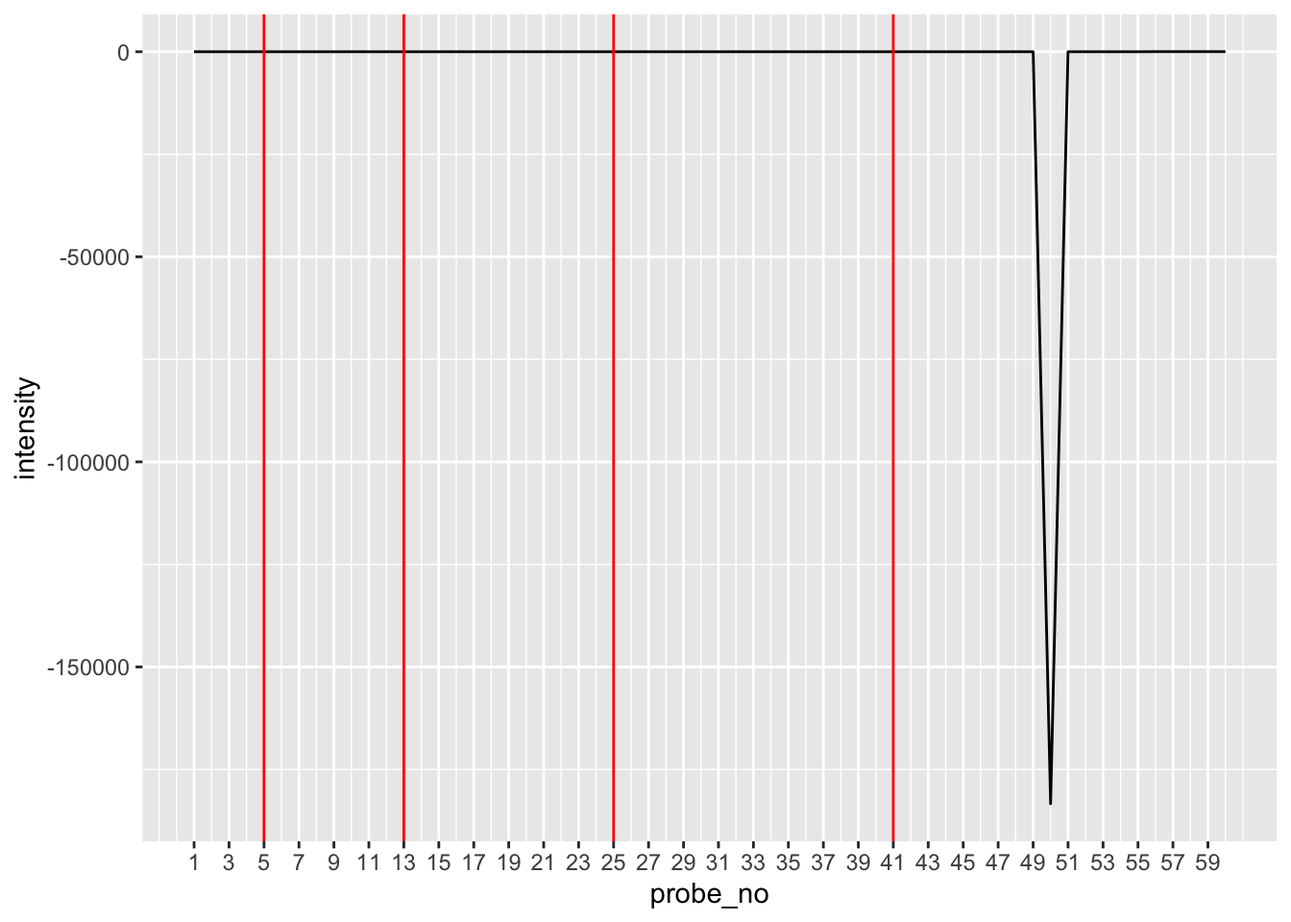
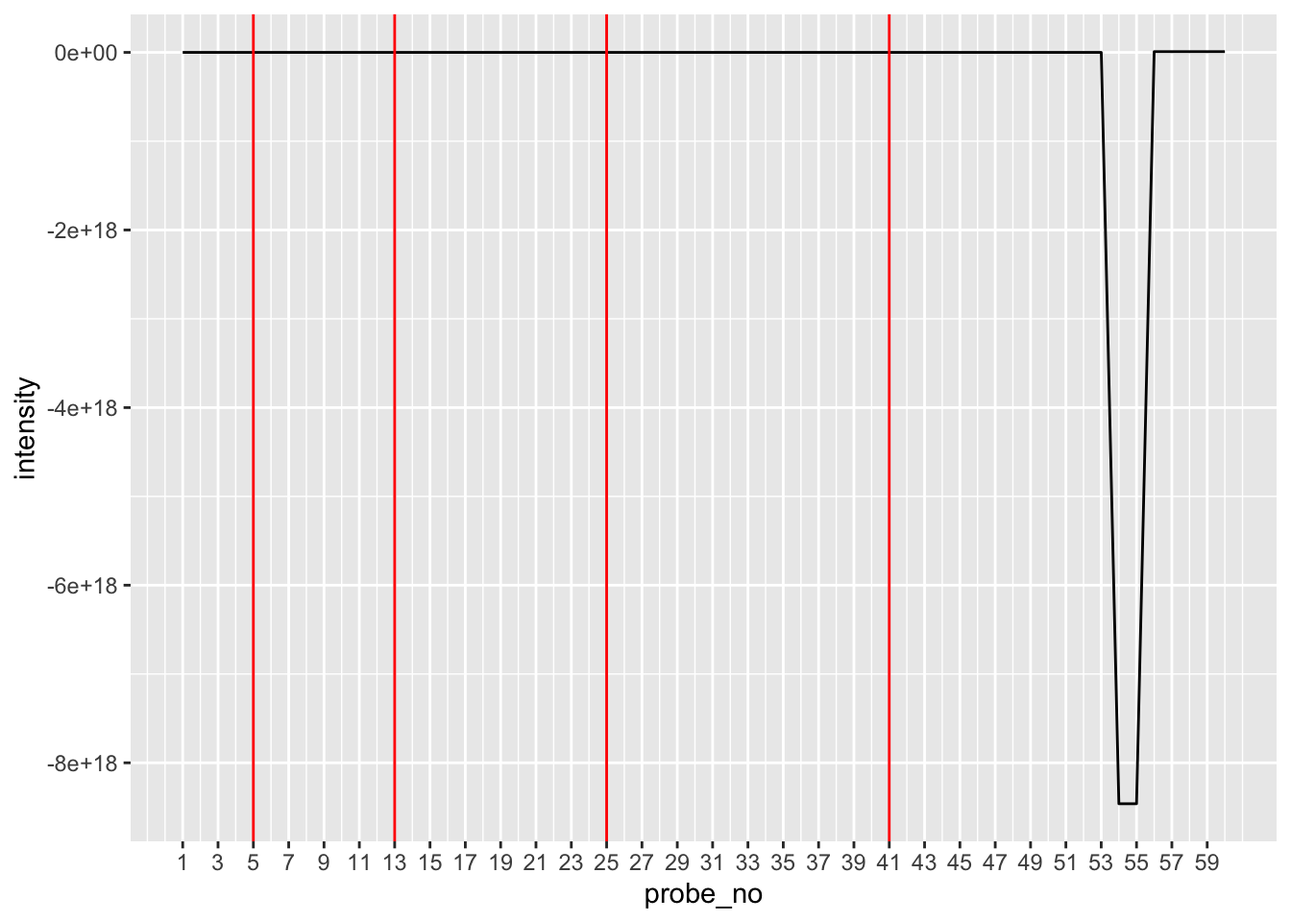
Edited DiscrepancyEncoding

Changed region(s): [[0.0312, 0.0, 0.9375, 1.0]]

diff --git a/docs/posts/DiscrepancyEncoding/index.html b/docs/posts/DiscrepancyEncoding/index.html
@@ -7,7 +7,7 @@
 <meta name="viewport" content="width=device-width, initial-scale=1.0, user-scalable=yes">
 
 <meta name="author" content="Bram Goh">
-<meta name="dcterms.date" content="2023-03-08">
+<meta name="dcterms.date" content="2023-03-10">
 
 <title>../../Computational Cognition - Discrepancy Encoding in MINERVA (Part 1)</title>
 <style>
@@ -188,7 +188,7 @@ code span.wa { color: #60a0b0; font-weight: bold; font-style: italic; } /* Warni
       <div>
       <div class="quarto-title-meta-heading">Published</div>
       <div class="quarto-title-meta-contents">
-        <p class="date">March 8, 2023</p>
+        <p class="date">March 10, 2023</p>
       </div>
     </div>
     
@@ -317,7 +317,7 @@ code span.wa { color: #60a0b0; font-weight: bold; font-style: italic; } /* Warni
 <span id="cb6-30"><a href="#cb6-30" aria-hidden="true" tabindex="-1"></a>}</span></code><button title="Copy to Clipboard" class="code-copy-button"><i class="bi"></i></button></pre></div>
 </div>
 <div class="cell">
-<div class="sourceCode cell-code" id="cb7"><pre class="sourceCode r code-with-copy"><code class="sourceCode r"><span id="cb7-1"><a href="#cb7-1" aria-hidden="true" tabindex="-1"></a>raw_df_no_de <span class="ot">&lt;-</span> <span class="fu">sim_intensity_multiple</span>(<span class="dv">100</span>)</span>
+<div class="sourceCode cell-code" id="cb7"><pre class="sourceCode r code-with-copy"><code class="sourceCode r"><span id="cb7-1"><a href="#cb7-1" aria-hidden="true" tabindex="-1"></a>raw_df_no_de <span class="ot">&lt;-</span> <span class="fu">sim_intensity_multiple</span>(<span class="dv">1000</span>)</span>
 <span id="cb7-2"><a href="#cb7-2" aria-hidden="true" tabindex="-1"></a></span>
 <span id="cb7-3"><a href="#cb7-3" aria-hidden="true" tabindex="-1"></a>by_probe_no_de <span class="ot">&lt;-</span> <span class="fu">data.frame</span>(<span class="at">probe_no =</span> <span class="dv">1</span><span class="sc">:</span><span class="dv">60</span>, <span class="at">intensity =</span> <span class="fu">rowMeans</span>(raw_df_no_de))</span>
 <span id="cb7-4"><a href="#cb7-4" aria-hidden="true" tabindex="-1"></a><span class="fu">ggplot</span>(by_probe_no_de, <span class="fu">aes</span>(<span class="at">x =</span> probe_no, <span class="at">y =</span> intensity)) <span class="sc">+</span> <span class="fu">geom_line</span>() <span class="sc">+</span> <span class="fu">coord_cartesian</span>(<span class="at">ylim =</span> <span class="fu">c</span>(<span class="sc">-</span><span class="fl">0.01</span>, <span class="fl">0.075</span>)) <span class="sc">+</span> <span class="fu">scale_x_continuous</span>(<span class="at">breaks =</span> <span class="fu">seq</span>(<span class="dv">1</span>, <span class="dv">60</span>, <span class="dv">2</span>)) <span class="sc">+</span> <span class="fu">geom_vline</span>(<span class="at">xintercept =</span> <span class="fu">c</span>(<span class="dv">5</span>, <span class="dv">13</span>, <span class="dv">25</span>, <span class="dv">41</span>), <span class="at">color =</span> <span class="st">"red"</span>)</span></code><button title="Copy to Clipboard" class="code-copy-button"><i class="bi"></i></button></pre></div>
@@ -330,6 +330,7 @@ code span.wa { color: #60a0b0; font-weight: bold; font-style: italic; } /* Warni
 <p><img src="index_files/figure-html/unnamed-chunk-3-2.png" class="img-fluid" width="672"></p>
 </div>
 </div>
+<p>This looks like what we would expect: the intensities are higher when the presented probe has been seen before, and the more times it’s been presented before, the higher the intensity. Looking at the frequency distributions, we see a similar overall shape to that found in Hintzman (1988), with the amplitudes decreasing and the variance increasing with higher frequency. The details are different, probably because the setup here is different from Hintzman (1988): we start off here with a ‘blank slate’ of random vectors in memory before adding each probe to populate memory.</p>
 <div class="cell">
 <div class="sourceCode cell-code" id="cb9"><pre class="sourceCode r code-with-copy"><code class="sourceCode r"><span id="cb9-1"><a href="#cb9-1" aria-hidden="true" tabindex="-1"></a><span class="co"># Overall simulation function (with discrepancy encoding)</span></span>
 <span id="cb9-2"><a href="#cb9-2" aria-hidden="true" tabindex="-1"></a></span>
@@ -342,42 +343,105 @@ code span.wa { color: #60a0b0; font-weight: bold; font-style: italic; } /* Warni
 <span id="cb9-9"><a href="#cb9-9" aria-hidden="true" tabindex="-1"></a></span>
 <span id="cb9-10"><a href="#cb9-10" aria-hidden="true" tabindex="-1"></a><span class="co"># Caluclating intensities and storing each probe</span></span>
 <span id="cb9-11"><a href="#cb9-11" aria-hidden="true" tabindex="-1"></a>intensity_vector <span class="ot">&lt;-</span> <span class="fu">numeric</span>(<span class="at">length =</span> <span class="fu">nrow</span>(probe_matrix))</span>
-<span id="cb9-12"><a href="#cb9-12" aria-hidden="true" tabindex="-1"></a>  <span class="cf">for</span>(i <span class="cf">in</span> <span class="dv">1</span><span class="sc">:</span><span class="fu">nrow</span>(probe_matrix)){</span>
-<span id="cb9-13"><a href="#cb9-13" aria-hidden="true" tabindex="-1"></a>    current_echo <span class="ot">&lt;-</span> <span class="fu">get_echo</span>(probe_matrix[i, ], memory, <span class="at">output =</span> <span class="st">"both"</span>)</span>
-<span id="cb9-14"><a href="#cb9-14" aria-hidden="true" tabindex="-1"></a>    intensity_vector[i] <span class="ot">&lt;-</span> current_echo[[<span class="dv">1</span>]]</span>
-<span id="cb9-15"><a href="#cb9-15" aria-hidden="true" tabindex="-1"></a>    learning_filter <span class="ot">&lt;-</span> <span class="fu">sample</span>(<span class="fu">c</span>(<span class="dv">0</span>, <span class="dv">1</span>), item_size, <span class="at">replace =</span> <span class="cn">TRUE</span>, <span class="at">prob =</span> <span class="fu">c</span>(<span class="dv">1</span><span class="sc">-</span>l_value, l_value))</span>
-<span id="cb9-16"><a href="#cb9-16" aria-hidden="true" tabindex="-1"></a>    current_content <span class="ot">&lt;-</span> current_echo[[<span class="dv">2</span>]]<span class="sc">/</span><span class="fu">max</span>(current_echo[[<span class="dv">2</span>]])</span>
-<span id="cb9-17"><a href="#cb9-17" aria-hidden="true" tabindex="-1"></a>    discrep <span class="ot">&lt;-</span> probe_matrix[i, ] <span class="sc">-</span> current_content</span>
-<span id="cb9-18"><a href="#cb9-18" aria-hidden="true" tabindex="-1"></a>    learned_trace <span class="ot">&lt;-</span> discrep <span class="sc">*</span> learning_filter</span>
-<span id="cb9-19"><a href="#cb9-19" aria-hidden="true" tabindex="-1"></a>    memory[i, ] <span class="ot">&lt;-</span> learned_trace</span>
-<span id="cb9-20"><a href="#cb9-20" aria-hidden="true" tabindex="-1"></a>  }</span>
-<span id="cb9-21"><a href="#cb9-21" aria-hidden="true" tabindex="-1"></a>intensity_df <span class="ot">&lt;-</span> <span class="fu">data.frame</span>(<span class="at">intensity_value =</span> intensity_vector)</span>
-<span id="cb9-22"><a href="#cb9-22" aria-hidden="true" tabindex="-1"></a><span class="fu">return</span>(intensity_df)</span>
-<span id="cb9-23"><a href="#cb9-23" aria-hidden="true" tabindex="-1"></a>}</span>
-<span id="cb9-24"><a href="#cb9-24" aria-hidden="true" tabindex="-1"></a></span>
-<span id="cb9-25"><a href="#cb9-25" aria-hidden="true" tabindex="-1"></a>sim_intensity_multiple_de <span class="ot">&lt;-</span> <span class="cf">function</span>(n_of_sim, <span class="at">matrix_size =</span> <span class="dv">20</span>, <span class="at">item_size =</span> <span class="dv">20</span>, <span class="at">prob =</span> <span class="fu">c</span>(<span class="dv">1</span><span class="sc">/</span><span class="dv">3</span>, <span class="dv">1</span><span class="sc">/</span><span class="dv">3</span>, <span class="dv">1</span><span class="sc">/</span><span class="dv">3</span>), <span class="at">l_value =</span> .<span class="dv">5</span>, <span class="at">max_num_of_copies =</span> <span class="dv">5</span>, <span class="at">num_of_traces_per_freq =</span> <span class="dv">4</span>) {</span>
-<span id="cb9-26"><a href="#cb9-26" aria-hidden="true" tabindex="-1"></a>  full_intensity_df <span class="ot">&lt;-</span> <span class="fu">data.frame</span>(<span class="fu">matrix</span>(<span class="dv">0</span>, <span class="at">nrow =</span> <span class="fu">sum</span>((<span class="dv">1</span><span class="sc">:</span>max_num_of_copies)<span class="sc">*</span><span class="dv">4</span>), <span class="at">ncol =</span> n_of_sim))</span>
-<span id="cb9-27"><a href="#cb9-27" aria-hidden="true" tabindex="-1"></a>  <span class="cf">for</span>(i <span class="cf">in</span> <span class="dv">1</span><span class="sc">:</span>n_of_sim) {</span>
-<span id="cb9-28"><a href="#cb9-28" aria-hidden="true" tabindex="-1"></a>    intensity_column <span class="ot">&lt;-</span> <span class="fu">sim_intensity_once_de</span>(<span class="at">matrix_size =</span> matrix_size, <span class="at">item_size =</span> item_size, <span class="at">prob =</span> prob, <span class="at">l_value =</span> l_value, <span class="at">max_num_of_copies =</span> max_num_of_copies, <span class="at">num_of_traces_per_freq =</span> num_of_traces_per_freq)</span>
-<span id="cb9-29"><a href="#cb9-29" aria-hidden="true" tabindex="-1"></a>    full_intensity_df[ , i] <span class="ot">&lt;-</span> intensity_column</span>
-<span id="cb9-30"><a href="#cb9-30" aria-hidden="true" tabindex="-1"></a>  }</span>
-<span id="cb9-31"><a href="#cb9-31" aria-hidden="true" tabindex="-1"></a>  <span class="fu">return</span>(full_intensity_df)</span>
-<span id="cb9-32"><a href="#cb9-32" aria-hidden="true" tabindex="-1"></a>}</span></code><button title="Copy to Clipboard" class="code-copy-button"><i class="bi"></i></button></pre></div>
+<span id="cb9-12"><a href="#cb9-12" aria-hidden="true" tabindex="-1"></a>probe_discrep_cor <span class="ot">&lt;-</span> <span class="fu">numeric</span>(<span class="at">length =</span> <span class="fu">nrow</span>(probe_matrix))</span>
+<span id="cb9-13"><a href="#cb9-13" aria-hidden="true" tabindex="-1"></a>  <span class="cf">for</span>(i <span class="cf">in</span> <span class="dv">1</span><span class="sc">:</span><span class="fu">nrow</span>(probe_matrix)){</span>
+<span id="cb9-14"><a href="#cb9-14" aria-hidden="true" tabindex="-1"></a>    current_echo <span class="ot">&lt;-</span> <span class="fu">get_echo</span>(probe_matrix[i, ], memory, <span class="at">output =</span> <span class="st">"both"</span>)</span>
+<span id="cb9-15"><a href="#cb9-15" aria-hidden="true" tabindex="-1"></a>    intensity_vector[i] <span class="ot">&lt;-</span> current_echo[[<span class="dv">1</span>]]</span>
+<span id="cb9-16"><a href="#cb9-16" aria-hidden="true" tabindex="-1"></a>    learning_filter <span class="ot">&lt;-</span> <span class="fu">sample</span>(<span class="fu">c</span>(<span class="dv">0</span>, <span class="dv">1</span>), item_size, <span class="at">replace =</span> <span class="cn">TRUE</span>, <span class="at">prob =</span> <span class="fu">c</span>(<span class="dv">1</span><span class="sc">-</span>l_value, l_value))</span>
+<span id="cb9-17"><a href="#cb9-17" aria-hidden="true" tabindex="-1"></a>    current_content <span class="ot">&lt;-</span> current_echo[[<span class="dv">2</span>]]<span class="sc">/</span><span class="fu">max</span>(current_echo[[<span class="dv">2</span>]])</span>
+<span id="cb9-18"><a href="#cb9-18" aria-hidden="true" tabindex="-1"></a>    discrep <span class="ot">&lt;-</span> probe_matrix[i, ] <span class="sc">-</span> current_content</span>
+<span id="cb9-19"><a href="#cb9-19" aria-hidden="true" tabindex="-1"></a>    learned_trace <span class="ot">&lt;-</span> discrep <span class="sc">*</span> learning_filter</span>
+<span id="cb9-20"><a href="#cb9-20" aria-hidden="true" tabindex="-1"></a>    memory[i, ] <span class="ot">&lt;-</span> learned_trace</span>
+<span id="cb9-21"><a href="#cb9-21" aria-hidden="true" tabindex="-1"></a>    current_cor <span class="ot">&lt;-</span> <span class="fu">cor</span>(probe_matrix[i, ], discrep)</span>
+<span id="cb9-22"><a href="#cb9-22" aria-hidden="true" tabindex="-1"></a>    probe_discrep_cor[i] <span class="ot">&lt;-</span> current_cor</span>
+<span id="cb9-23"><a href="#cb9-23" aria-hidden="true" tabindex="-1"></a>  }</span>
+<span id="cb9-24"><a href="#cb9-24" aria-hidden="true" tabindex="-1"></a>intensity_df <span class="ot">&lt;-</span> <span class="fu">data.frame</span>(<span class="at">intensity_value =</span> intensity_vector)</span>
+<span id="cb9-25"><a href="#cb9-25" aria-hidden="true" tabindex="-1"></a>discrep_df <span class="ot">=</span> <span class="fu">data.frame</span>(<span class="at">discrep_cor =</span> probe_discrep_cor)</span>
+<span id="cb9-26"><a href="#cb9-26" aria-hidden="true" tabindex="-1"></a>output_final <span class="ot">&lt;-</span> <span class="fu">list</span>(<span class="at">intensity =</span> intensity_df, <span class="at">discrep_cor =</span> discrep_df, <span class="at">memory =</span> memory)</span>
+<span id="cb9-27"><a href="#cb9-27" aria-hidden="true" tabindex="-1"></a><span class="fu">return</span>(output_final)</span>
+<span id="cb9-28"><a href="#cb9-28" aria-hidden="true" tabindex="-1"></a>}</span>
+<span id="cb9-29"><a href="#cb9-29" aria-hidden="true" tabindex="-1"></a></span>
+<span id="cb9-30"><a href="#cb9-30" aria-hidden="true" tabindex="-1"></a>sim_intensity_multiple_de <span class="ot">&lt;-</span> <span class="cf">function</span>(n_of_sim, <span class="at">matrix_size =</span> <span class="dv">20</span>, <span class="at">item_size =</span> <span class="dv">20</span>, <span class="at">prob =</span> <span class="fu">c</span>(<span class="dv">1</span><span class="sc">/</span><span class="dv">3</span>, <span class="dv">1</span><span class="sc">/</span><span class="dv">3</span>, <span class="dv">1</span><span class="sc">/</span><span class="dv">3</span>), <span class="at">l_value =</span> .<span class="dv">5</span>, <span class="at">max_num_of_copies =</span> <span class="dv">5</span>, <span class="at">num_of_traces_per_freq =</span> <span class="dv">4</span>) {</span>
+<span id="cb9-31"><a href="#cb9-31" aria-hidden="true" tabindex="-1"></a>  full_intensity_df <span class="ot">&lt;-</span> <span class="fu">data.frame</span>(<span class="fu">matrix</span>(<span class="dv">0</span>, <span class="at">nrow =</span> <span class="fu">sum</span>((<span class="dv">1</span><span class="sc">:</span>max_num_of_copies)<span class="sc">*</span><span class="dv">4</span>), <span class="at">ncol =</span> n_of_sim))</span>
+<span id="cb9-32"><a href="#cb9-32" aria-hidden="true" tabindex="-1"></a>  full_discrep_cor_df <span class="ot">&lt;-</span> <span class="fu">data.frame</span>(<span class="fu">matrix</span>(<span class="dv">0</span>, <span class="at">nrow =</span> <span class="fu">sum</span>((<span class="dv">1</span><span class="sc">:</span>max_num_of_copies)<span class="sc">*</span><span class="dv">4</span>), <span class="at">ncol =</span> n_of_sim))</span>
+<span id="cb9-33"><a href="#cb9-33" aria-hidden="true" tabindex="-1"></a>  <span class="cf">for</span>(i <span class="cf">in</span> <span class="dv">1</span><span class="sc">:</span>n_of_sim) {</span>
+<span id="cb9-34"><a href="#cb9-34" aria-hidden="true" tabindex="-1"></a>    output_list <span class="ot">&lt;-</span> <span class="fu">sim_intensity_once_de</span>(<span class="at">matrix_size =</span> matrix_size, <span class="at">item_size =</span> item_size, <span class="at">prob =</span> prob, <span class="at">l_value =</span> l_value, <span class="at">max_num_of_copies =</span> max_num_of_copies, <span class="at">num_of_traces_per_freq =</span> num_of_traces_per_freq)</span>
+<span id="cb9-35"><a href="#cb9-35" aria-hidden="true" tabindex="-1"></a>    full_intensity_df[ , i] <span class="ot">&lt;-</span> output_list[[<span class="dv">1</span>]]</span>
+<span id="cb9-36"><a href="#cb9-36" aria-hidden="true" tabindex="-1"></a>    full_discrep_cor_df[ , i] <span class="ot">&lt;-</span> output_list[[<span class="dv">2</span>]]</span>
+<span id="cb9-37"><a href="#cb9-37" aria-hidden="true" tabindex="-1"></a>  }</span>
+<span id="cb9-38"><a href="#cb9-38" aria-hidden="true" tabindex="-1"></a>  full_df_list <span class="ot">&lt;-</span> <span class="fu">list</span>(<span class="at">intensity =</span> full_intensity_df, <span class="at">dicrep_cor =</span> full_discrep_cor_df)</span>
+<span id="cb9-39"><a href="#cb9-39" aria-hidden="true" tabindex="-1"></a>  <span class="fu">return</span>(full_df_list)</span>
+<span id="cb9-40"><a href="#cb9-40" aria-hidden="true" tabindex="-1"></a>}</span></code><button title="Copy to Clipboard" class="code-copy-button"><i class="bi"></i></button></pre></div>
 </div>
 <div class="cell">
-<div class="sourceCode cell-code" id="cb10"><pre class="sourceCode r code-with-copy"><code class="sourceCode r"><span id="cb10-1"><a href="#cb10-1" aria-hidden="true" tabindex="-1"></a>raw_df_with_de <span class="ot">&lt;-</span> <span class="fu">sim_intensity_multiple_de</span>(<span class="dv">100</span>)</span>
-<span id="cb10-2"><a href="#cb10-2" aria-hidden="true" tabindex="-1"></a></span>
-<span id="cb10-3"><a href="#cb10-3" aria-hidden="true" tabindex="-1"></a>by_probe_with_de <span class="ot">&lt;-</span> <span class="fu">data.frame</span>(<span class="at">probe_no =</span> <span class="dv">1</span><span class="sc">:</span><span class="dv">60</span>, <span class="at">intensity =</span> <span class="fu">rowMeans</span>(raw_df_with_de))</span>
-<span id="cb10-4"><a href="#cb10-4" aria-hidden="true" tabindex="-1"></a><span class="fu">ggplot</span>(by_probe_with_de, <span class="fu">aes</span>(<span class="at">x =</span> probe_no, <span class="at">y =</span> intensity)) <span class="sc">+</span> <span class="fu">geom_line</span>() <span class="sc">+</span> <span class="fu">scale_x_continuous</span>(<span class="at">breaks =</span> <span class="fu">seq</span>(<span class="dv">1</span>, <span class="dv">60</span>, <span class="dv">2</span>)) <span class="sc">+</span> <span class="fu">geom_vline</span>(<span class="at">xintercept =</span> <span class="fu">c</span>(<span class="dv">5</span>, <span class="dv">13</span>, <span class="dv">25</span>, <span class="dv">41</span>), <span class="at">color =</span> <span class="st">"red"</span>)</span></code><button title="Copy to Clipboard" class="code-copy-button"><i class="bi"></i></button></pre></div>
+<div class="sourceCode cell-code" id="cb10"><pre class="sourceCode r code-with-copy"><code class="sourceCode r"><span id="cb10-1"><a href="#cb10-1" aria-hidden="true" tabindex="-1"></a>raw_dfs_with_de <span class="ot">&lt;-</span> <span class="fu">sim_intensity_multiple_de</span>(<span class="dv">1000</span>)</span>
+<span id="cb10-2"><a href="#cb10-2" aria-hidden="true" tabindex="-1"></a>intensity_with_de <span class="ot">&lt;-</span> raw_dfs_with_de[[<span class="dv">1</span>]]</span>
+<span id="cb10-3"><a href="#cb10-3" aria-hidden="true" tabindex="-1"></a>discrep_cor_with_de <span class="ot">&lt;-</span> raw_dfs_with_de[[<span class="dv">2</span>]]</span>
+<span id="cb10-4"><a href="#cb10-4" aria-hidden="true" tabindex="-1"></a>by_probe_with_de <span class="ot">&lt;-</span> <span class="fu">data.frame</span>(<span class="at">probe_no =</span> <span class="dv">1</span><span class="sc">:</span><span class="dv">60</span>, <span class="at">intensity =</span> <span class="fu">rowMeans</span>(intensity_with_de), <span class="at">discrep_cor =</span> <span class="fu">rowMeans</span>(discrep_cor_with_de))</span>
+<span id="cb10-5"><a href="#cb10-5" aria-hidden="true" tabindex="-1"></a><span class="fu">ggplot</span>(by_probe_with_de, <span class="fu">aes</span>(<span class="at">x =</span> probe_no, <span class="at">y =</span> intensity)) <span class="sc">+</span> <span class="fu">geom_line</span>() <span class="sc">+</span> <span class="fu">scale_x_continuous</span>(<span class="at">breaks =</span> <span class="fu">seq</span>(<span class="dv">1</span>, <span class="dv">60</span>, <span class="dv">2</span>)) <span class="sc">+</span> <span class="fu">geom_vline</span>(<span class="at">xintercept =</span> <span class="fu">c</span>(<span class="dv">5</span>, <span class="dv">13</span>, <span class="dv">25</span>, <span class="dv">41</span>), <span class="at">color =</span> <span class="st">"red"</span>)</span></code><button title="Copy to Clipboard" class="code-copy-button"><i class="bi"></i></button></pre></div>
 <div class="cell-output-display">
 <p><img src="index_files/figure-html/unnamed-chunk-5-1.png" class="img-fluid" width="672"></p>
 </div>
-<div class="sourceCode cell-code" id="cb11"><pre class="sourceCode r code-with-copy"><code class="sourceCode r"><span id="cb11-1"><a href="#cb11-1" aria-hidden="true" tabindex="-1"></a>by_freq_with_de <span class="ot">&lt;-</span> <span class="fu">data.frame</span>(<span class="at">frequency =</span> <span class="fu">rep</span>(<span class="fu">c</span>(<span class="dv">1</span>,<span class="dv">2</span>,<span class="dv">3</span>,<span class="dv">4</span>,<span class="dv">5</span>), <span class="at">each =</span> <span class="dv">4</span>), raw_df_with_de) <span class="sc">%&gt;%</span> <span class="fu">group_by</span>(frequency) <span class="sc">%&gt;%</span> <span class="fu">summarize_all</span>(mean) <span class="sc">%&gt;%</span> <span class="fu">pivot_longer</span>(<span class="sc">!</span>frequency, <span class="at">names_to =</span> <span class="st">"Drop"</span>, <span class="at">values_to =</span> <span class="st">"Intensity"</span>) <span class="sc">%&gt;%</span> <span class="fu">select</span>(<span class="sc">-</span>Drop)</span>
-<span id="cb11-2"><a href="#cb11-2" aria-hidden="true" tabindex="-1"></a><span class="fu">ggplot</span>(by_freq_with_de, <span class="fu">aes</span>(<span class="at">x =</span> Intensity, <span class="at">color =</span> <span class="fu">factor</span>(frequency))) <span class="sc">+</span> <span class="fu">geom_density</span>(<span class="at">show.legend =</span> <span class="cn">TRUE</span>) <span class="sc">+</span> <span class="fu">coord_cartesian</span>(<span class="at">xlim =</span> <span class="fu">c</span>(<span class="sc">-</span><span class="fl">0.0025</span>, <span class="fl">0.0025</span>))</span></code><button title="Copy to Clipboard" class="code-copy-button"><i class="bi"></i></button></pre></div>
+<div class="sourceCode cell-code" id="cb11"><pre class="sourceCode r code-with-copy"><code class="sourceCode r"><span id="cb11-1"><a href="#cb11-1" aria-hidden="true" tabindex="-1"></a><span class="fu">ggplot</span>(by_probe_with_de, <span class="fu">aes</span>(<span class="at">x =</span> probe_no, <span class="at">y =</span> discrep_cor)) <span class="sc">+</span> <span class="fu">geom_line</span>() <span class="sc">+</span> <span class="fu">scale_x_continuous</span>(<span class="at">breaks =</span> <span class="fu">seq</span>(<span class="dv">1</span>, <span class="dv">60</span>, <span class="dv">2</span>)) <span class="sc">+</span> <span class="fu">geom_vline</span>(<span class="at">xintercept =</span> <span class="fu">c</span>(<span class="dv">5</span>, <span class="dv">13</span>, <span class="dv">25</span>, <span class="dv">41</span>), <span class="at">color =</span> <span class="st">"red"</span>)</span></code><button title="Copy to Clipboard" class="code-copy-button"><i class="bi"></i></button></pre></div>
 <div class="cell-output-display">
 <p><img src="index_files/figure-html/unnamed-chunk-5-2.png" class="img-fluid" width="672"></p>
 </div>
+<div class="sourceCode cell-code" id="cb12"><pre class="sourceCode r code-with-copy"><code class="sourceCode r"><span id="cb12-1"><a href="#cb12-1" aria-hidden="true" tabindex="-1"></a>by_freq_with_de <span class="ot">&lt;-</span> <span class="fu">data.frame</span>(<span class="at">frequency =</span> <span class="fu">rep</span>(<span class="fu">c</span>(<span class="dv">1</span>,<span class="dv">2</span>,<span class="dv">3</span>,<span class="dv">4</span>,<span class="dv">5</span>), <span class="at">each =</span> <span class="dv">4</span>), intensity_with_de) <span class="sc">%&gt;%</span> <span class="fu">group_by</span>(frequency) <span class="sc">%&gt;%</span> <span class="fu">summarize_all</span>(mean) <span class="sc">%&gt;%</span> <span class="fu">pivot_longer</span>(<span class="sc">!</span>frequency, <span class="at">names_to =</span> <span class="st">"Drop"</span>, <span class="at">values_to =</span> <span class="st">"Intensity"</span>) <span class="sc">%&gt;%</span> <span class="fu">select</span>(<span class="sc">-</span>Drop)</span>
+<span id="cb12-2"><a href="#cb12-2" aria-hidden="true" tabindex="-1"></a><span class="fu">ggplot</span>(by_freq_with_de, <span class="fu">aes</span>(<span class="at">x =</span> Intensity, <span class="at">color =</span> <span class="fu">factor</span>(frequency))) <span class="sc">+</span> <span class="fu">geom_density</span>(<span class="at">show.legend =</span> <span class="cn">TRUE</span>)</span></code><button title="Copy to Clipboard" class="code-copy-button"><i class="bi"></i></button></pre></div>
+<div class="cell-output-display">
+<p><img src="index_files/figure-html/unnamed-chunk-5-3.png" class="img-fluid" width="672"></p>
 </div>
+</div>
+<p>This result doesn’t make sense. It could be that the discrepancy encoding in MINERVA-AL applies only to associative learning, where two or more events are paired and you can elicit expectations for an event through “partial return”, as Semon would have put it, by presenting one of the paired events. In the frequency judgment task, however, the probe presented is not paired with anything, and so there is no expectation to be had. Each probe is a “full pattern” with no 0s to show that a “missing event” is anticipated.</p>
+<div class="cell">
+<div class="sourceCode cell-code" id="cb13"><pre class="sourceCode r code-with-copy"><code class="sourceCode r"><span id="cb13-1"><a href="#cb13-1" aria-hidden="true" tabindex="-1"></a><span class="co"># Overall simulation function (using Collins et al. 2020's encoding function)</span></span>
+<span id="cb13-2"><a href="#cb13-2" aria-hidden="true" tabindex="-1"></a></span>
+<span id="cb13-3"><a href="#cb13-3" aria-hidden="true" tabindex="-1"></a>sim_intensity_collins <span class="ot">&lt;-</span> <span class="cf">function</span>(<span class="at">matrix_size =</span> <span class="dv">20</span>, <span class="at">item_size =</span> <span class="dv">20</span>, <span class="at">prob =</span> <span class="fu">c</span>(<span class="dv">1</span><span class="sc">/</span><span class="dv">3</span>, <span class="dv">1</span><span class="sc">/</span><span class="dv">3</span>, <span class="dv">1</span><span class="sc">/</span><span class="dv">3</span>), <span class="at">l_value_max =</span> <span class="fl">1.0</span>, <span class="at">max_num_of_copies =</span> <span class="dv">5</span>, <span class="at">num_of_traces_per_freq =</span> <span class="dv">4</span>) {</span>
+<span id="cb13-4"><a href="#cb13-4" aria-hidden="true" tabindex="-1"></a>  item_matrix <span class="ot">&lt;-</span> <span class="fu">gen_item_matrix</span>(<span class="at">matrix_size =</span> matrix_size, <span class="at">item_size =</span> item_size, <span class="at">prob =</span> prob)</span>
+<span id="cb13-5"><a href="#cb13-5" aria-hidden="true" tabindex="-1"></a>  probe_matrix <span class="ot">&lt;-</span> <span class="fu">gen_probes</span>(item_matrix, <span class="at">prob =</span> prob, <span class="at">max_num_of_copies =</span> max_num_of_copies, <span class="at">num_of_traces_per_freq =</span> num_of_traces_per_freq)</span>
+<span id="cb13-6"><a href="#cb13-6" aria-hidden="true" tabindex="-1"></a></span>
+<span id="cb13-7"><a href="#cb13-7" aria-hidden="true" tabindex="-1"></a>  <span class="co"># Starting state secondary memory</span></span>
+<span id="cb13-8"><a href="#cb13-8" aria-hidden="true" tabindex="-1"></a>memory <span class="ot">&lt;-</span> <span class="fu">t</span>(<span class="fu">replicate</span>(<span class="at">n =</span> <span class="dv">60</span>, <span class="fu">generate_item</span>(<span class="at">item_size =</span> <span class="dv">20</span>, <span class="at">prob =</span> <span class="fu">c</span>(<span class="dv">1</span><span class="sc">/</span><span class="dv">3</span>, <span class="dv">1</span><span class="sc">/</span><span class="dv">3</span>, <span class="dv">1</span><span class="sc">/</span><span class="dv">3</span>))))</span>
+<span id="cb13-9"><a href="#cb13-9" aria-hidden="true" tabindex="-1"></a></span>
+<span id="cb13-10"><a href="#cb13-10" aria-hidden="true" tabindex="-1"></a><span class="co"># Caluclating intensities and storing each probe</span></span>
+<span id="cb13-11"><a href="#cb13-11" aria-hidden="true" tabindex="-1"></a>intensity_vector <span class="ot">&lt;-</span> <span class="fu">numeric</span>(<span class="at">length =</span> <span class="fu">nrow</span>(probe_matrix))</span>
+<span id="cb13-12"><a href="#cb13-12" aria-hidden="true" tabindex="-1"></a>  <span class="cf">for</span>(i <span class="cf">in</span> <span class="dv">1</span><span class="sc">:</span><span class="fu">nrow</span>(probe_matrix)){</span>
+<span id="cb13-13"><a href="#cb13-13" aria-hidden="true" tabindex="-1"></a>    current_echo <span class="ot">&lt;-</span> <span class="fu">get_echo</span>(probe_matrix[i, ], memory, <span class="at">output =</span> <span class="st">"both"</span>)</span>
+<span id="cb13-14"><a href="#cb13-14" aria-hidden="true" tabindex="-1"></a>    intensity_vector[i] <span class="ot">&lt;-</span> current_echo[[<span class="dv">1</span>]]</span>
+<span id="cb13-15"><a href="#cb13-15" aria-hidden="true" tabindex="-1"></a>    l_value <span class="ot">&lt;-</span> l_value_max <span class="sc">*</span> (<span class="dv">1</span> <span class="sc">-</span> <span class="dv">1</span><span class="sc">/</span>(<span class="dv">1</span> <span class="sc">+</span> <span class="fu">exp</span>(<span class="dv">1</span>)<span class="sc">^</span>(<span class="sc">-</span><span class="dv">12</span> <span class="sc">*</span> current_echo[[<span class="dv">1</span>]] <span class="sc">+</span> <span class="dv">2</span>)))</span>
+<span id="cb13-16"><a href="#cb13-16" aria-hidden="true" tabindex="-1"></a>    learning_filter <span class="ot">&lt;-</span> <span class="fu">sample</span>(<span class="fu">c</span>(<span class="dv">0</span>, <span class="dv">1</span>), item_size, <span class="at">replace =</span> <span class="cn">TRUE</span>, <span class="at">prob =</span> <span class="fu">c</span>(<span class="dv">1</span><span class="sc">-</span>l_value, l_value))</span>
+<span id="cb13-17"><a href="#cb13-17" aria-hidden="true" tabindex="-1"></a>    learned_trace <span class="ot">&lt;-</span> probe_matrix[i, ] <span class="sc">*</span> learning_filter</span>
+<span id="cb13-18"><a href="#cb13-18" aria-hidden="true" tabindex="-1"></a>    memory[i, ] <span class="ot">&lt;-</span> learned_trace</span>
+<span id="cb13-19"><a href="#cb13-19" aria-hidden="true" tabindex="-1"></a>  }</span>
+<span id="cb13-20"><a href="#cb13-20" aria-hidden="true" tabindex="-1"></a>intensity_df <span class="ot">&lt;-</span> <span class="fu">data.frame</span>(<span class="at">intensity_value =</span> intensity_vector)</span>
+<span id="cb13-21"><a href="#cb13-21" aria-hidden="true" tabindex="-1"></a><span class="fu">return</span>(intensity_df)</span>
+<span id="cb13-22"><a href="#cb13-22" aria-hidden="true" tabindex="-1"></a>}</span>
+<span id="cb13-23"><a href="#cb13-23" aria-hidden="true" tabindex="-1"></a></span>
+<span id="cb13-24"><a href="#cb13-24" aria-hidden="true" tabindex="-1"></a>sim_intensity_multiple_collins <span class="ot">&lt;-</span> <span class="cf">function</span>(n_of_sim, <span class="at">matrix_size =</span> <span class="dv">20</span>, <span class="at">item_size =</span> <span class="dv">20</span>, <span class="at">prob =</span> <span class="fu">c</span>(<span class="dv">1</span><span class="sc">/</span><span class="dv">3</span>, <span class="dv">1</span><span class="sc">/</span><span class="dv">3</span>, <span class="dv">1</span><span class="sc">/</span><span class="dv">3</span>), <span class="at">l_value_max =</span> <span class="fl">1.0</span>, <span class="at">max_num_of_copies =</span> <span class="dv">5</span>, <span class="at">num_of_traces_per_freq =</span> <span class="dv">4</span>) {</span>
+<span id="cb13-25"><a href="#cb13-25" aria-hidden="true" tabindex="-1"></a>  full_intensity_df <span class="ot">&lt;-</span> <span class="fu">data.frame</span>(<span class="fu">matrix</span>(<span class="dv">0</span>, <span class="at">nrow =</span> <span class="fu">sum</span>((<span class="dv">1</span><span class="sc">:</span>max_num_of_copies)<span class="sc">*</span><span class="dv">4</span>), <span class="at">ncol =</span> n_of_sim))</span>
+<span id="cb13-26"><a href="#cb13-26" aria-hidden="true" tabindex="-1"></a>  <span class="cf">for</span>(i <span class="cf">in</span> <span class="dv">1</span><span class="sc">:</span>n_of_sim) {</span>
+<span id="cb13-27"><a href="#cb13-27" aria-hidden="true" tabindex="-1"></a>    current_int <span class="ot">&lt;-</span> <span class="fu">sim_intensity_collins</span>(<span class="at">matrix_size =</span> matrix_size, <span class="at">item_size =</span> item_size, <span class="at">prob =</span> prob, <span class="at">l_value_max =</span> l_value_max, <span class="at">max_num_of_copies =</span> max_num_of_copies, <span class="at">num_of_traces_per_freq =</span> num_of_traces_per_freq)</span>
+<span id="cb13-28"><a href="#cb13-28" aria-hidden="true" tabindex="-1"></a>    full_intensity_df[ , i] <span class="ot">&lt;-</span> current_int</span>
+<span id="cb13-29"><a href="#cb13-29" aria-hidden="true" tabindex="-1"></a>  }</span>
+<span id="cb13-30"><a href="#cb13-30" aria-hidden="true" tabindex="-1"></a>  <span class="fu">return</span>(full_intensity_df)</span>
+<span id="cb13-31"><a href="#cb13-31" aria-hidden="true" tabindex="-1"></a>}</span></code><button title="Copy to Clipboard" class="code-copy-button"><i class="bi"></i></button></pre></div>
+</div>
+<div class="cell">
+<div class="sourceCode cell-code" id="cb14"><pre class="sourceCode r code-with-copy"><code class="sourceCode r"><span id="cb14-1"><a href="#cb14-1" aria-hidden="true" tabindex="-1"></a>raw_df_collins <span class="ot">&lt;-</span> <span class="fu">sim_intensity_multiple_collins</span>(<span class="dv">1000</span>)</span>
+<span id="cb14-2"><a href="#cb14-2" aria-hidden="true" tabindex="-1"></a></span>
+<span id="cb14-3"><a href="#cb14-3" aria-hidden="true" tabindex="-1"></a>by_probe_collins <span class="ot">&lt;-</span> <span class="fu">data.frame</span>(<span class="at">probe_no =</span> <span class="dv">1</span><span class="sc">:</span><span class="dv">60</span>, <span class="at">intensity =</span> <span class="fu">rowMeans</span>(raw_df_collins))</span>
+<span id="cb14-4"><a href="#cb14-4" aria-hidden="true" tabindex="-1"></a><span class="fu">ggplot</span>(by_probe_collins, <span class="fu">aes</span>(<span class="at">x =</span> probe_no, <span class="at">y =</span> intensity)) <span class="sc">+</span> <span class="fu">geom_line</span>() <span class="sc">+</span> <span class="fu">scale_x_continuous</span>(<span class="at">breaks =</span> <span class="fu">seq</span>(<span class="dv">1</span>, <span class="dv">60</span>, <span class="dv">2</span>)) <span class="sc">+</span> <span class="fu">geom_vline</span>(<span class="at">xintercept =</span> <span class="fu">c</span>(<span class="dv">5</span>, <span class="dv">13</span>, <span class="dv">25</span>, <span class="dv">41</span>), <span class="at">color =</span> <span class="st">"red"</span>)</span></code><button title="Copy to Clipboard" class="code-copy-button"><i class="bi"></i></button></pre></div>
+<div class="cell-output-display">
+<p><img src="index_files/figure-html/unnamed-chunk-7-1.png" class="img-fluid" width="672"></p>
+</div>
+<div class="sourceCode cell-code" id="cb15"><pre class="sourceCode r code-with-copy"><code class="sourceCode r"><span id="cb15-1"><a href="#cb15-1" aria-hidden="true" tabindex="-1"></a>by_freq_collins <span class="ot">&lt;-</span> <span class="fu">data.frame</span>(<span class="at">frequency =</span> <span class="fu">rep</span>(<span class="fu">c</span>(<span class="dv">1</span>,<span class="dv">2</span>,<span class="dv">3</span>,<span class="dv">4</span>,<span class="dv">5</span>), <span class="at">each =</span> <span class="dv">4</span>), raw_df_collins) <span class="sc">%&gt;%</span> <span class="fu">group_by</span>(frequency) <span class="sc">%&gt;%</span> <span class="fu">summarize_all</span>(mean) <span class="sc">%&gt;%</span> <span class="fu">pivot_longer</span>(<span class="sc">!</span>frequency, <span class="at">names_to =</span> <span class="st">"Drop"</span>, <span class="at">values_to =</span> <span class="st">"Intensity"</span>) <span class="sc">%&gt;%</span> <span class="fu">select</span>(<span class="sc">-</span>Drop)</span>
+<span id="cb15-2"><a href="#cb15-2" aria-hidden="true" tabindex="-1"></a><span class="fu">ggplot</span>(by_freq_collins, <span class="fu">aes</span>(<span class="at">x =</span> Intensity, <span class="at">color =</span> <span class="fu">factor</span>(frequency))) <span class="sc">+</span> <span class="fu">geom_density</span>(<span class="at">show.legend =</span> <span class="cn">TRUE</span>)</span></code><button title="Copy to Clipboard" class="code-copy-button"><i class="bi"></i></button></pre></div>
+<div class="cell-output-display">
+<p><img src="index_files/figure-html/unnamed-chunk-7-2.png" class="img-fluid" width="672"></p>
+</div>
+</div>
+<p>The encoding function in Collins et al.&nbsp;(2020) makes more sense, even more sense than the no-DE simulations! The initial spike from frequency = 0 to frequency = 1 makes sense, and then subsequent increases in intensity become more and more muted as frequency increases i.e.&nbsp;the increase from frequency = 1 to frequency = 2 is smaller, and so on. At some point, uf we were to simulate frequencies higher than 5, we might arrive at a plateau, where the presentation of a high frequency probe does not lead to a noticeable increase in the intensity of the echo. Since familiarity (i.e.&nbsp;echo intensity) is inversely proportional to L, the rate at which a well-learned probe is encoded to memory diminishes with frequency, just as Matt predicted.</p>
+<p>So where does this leave discrepancy encoding as laid out in MINVERVA-AL (Jamieson et al., 2012)? As laid out in Collins et al., the retrieval process occurs both at the encoding stage and at the retrieval stage. Maybe the MINERVA-AL discrepancy encoding function happens at the retrieval stage AFTER the Collins et al encoding function? This way, you get the best of both worlds: a copy of the actual item (with varying fidelity depending on L) that occurs at the encoding stage AND a record of expectancy information that occurs at the retrieval stage.</p>
 
 
 </section>

diff --git a/docs/index.html b/docs/index.html
@@ -167,7 +167,7 @@ ul.task-list li input[type="checkbox"] {
 
 <div class="quarto-listing quarto-listing-container-default" id="listing-listing">
 <div class="list quarto-listing-default">
-<div class="quarto-post image-right" data-index="0" data-categories="code" data-listing-date-sort="1678251600000" data-listing-file-modified-sort="1678227432768" data-listing-reading-time-sort="4.745">
+<div class="quarto-post image-right" data-index="0" data-categories="code" data-listing-date-sort="1678424400000" data-listing-file-modified-sort="1678476864201" data-listing-reading-time-sort="8.66">
 <div class="thumbnail">
 <a href="./posts/DiscrepancyEncoding/index.html">
 <div class="thumbnail-image">
@@ -198,7 +198,7 @@ The goal of…
 <div class="metadata">
 <a href="./posts/DiscrepancyEncoding/index.html">
 <div class="listing-date">
-Mar 8, 2023
+Mar 10, 2023
 </div>
 <div class="listing-author">
 Bram Goh
